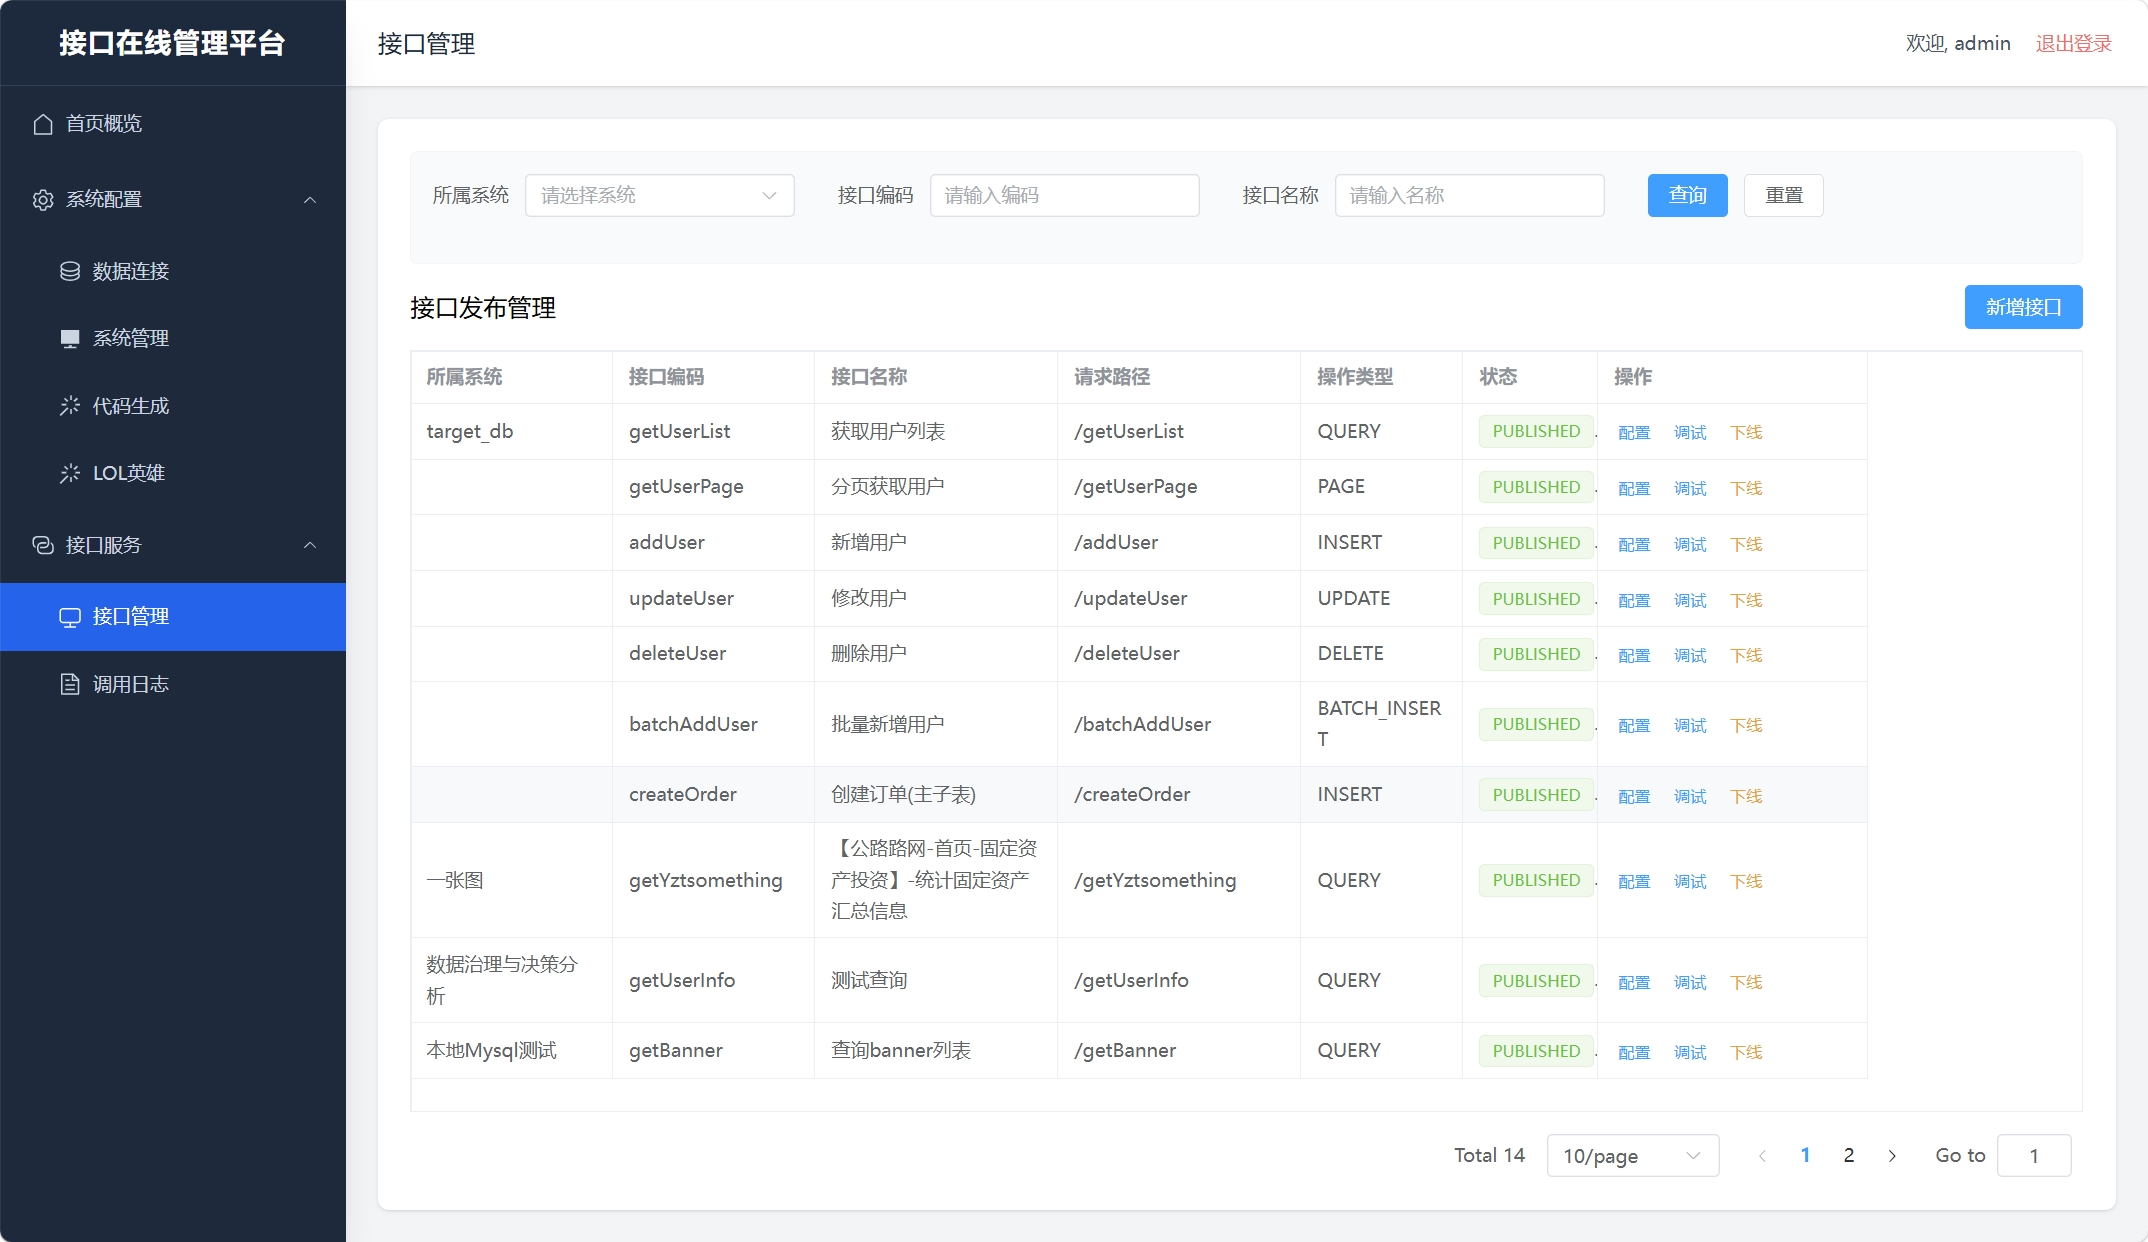
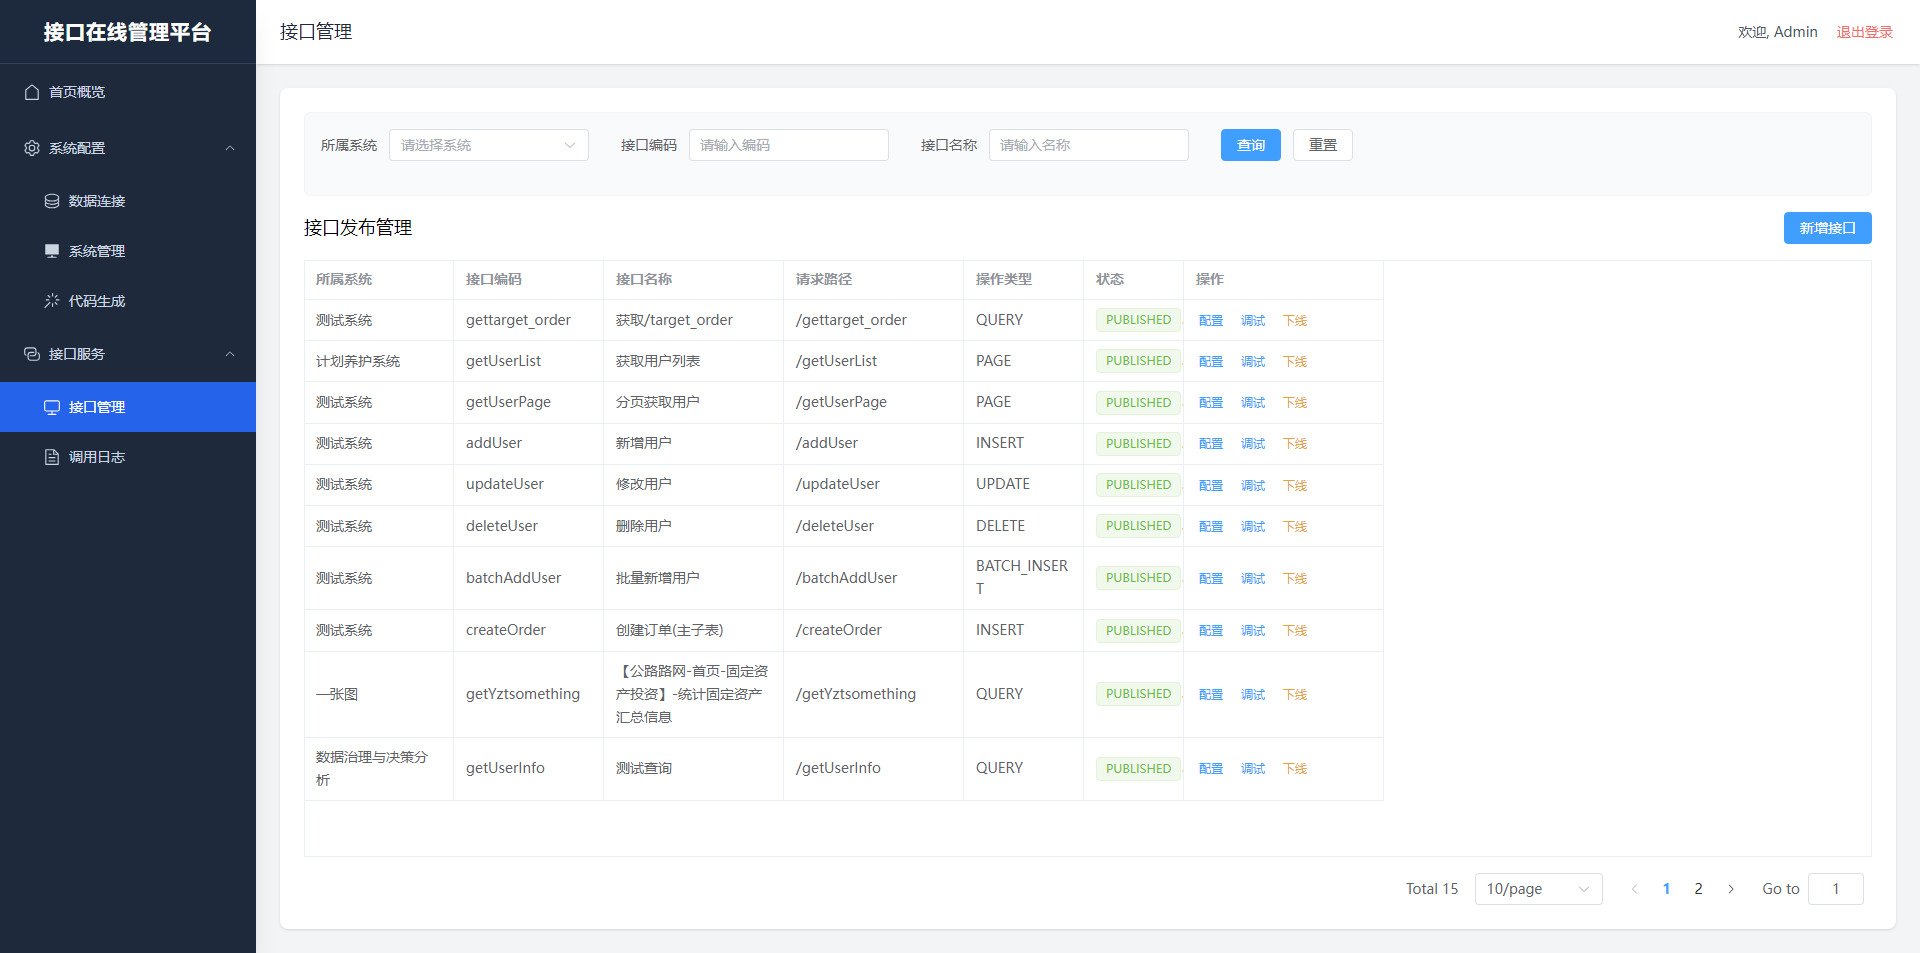
去出多余的依赖

diff --git a/coflxl-front/src/App.vue b/coflxl-front/src/App.vue
@@ -38,10 +38,6 @@
             <el-icon><MagicStick /></el-icon>
             <span>代码生成</span>
           </el-menu-item>
-          <el-menu-item index="/champion-details">
-            <el-icon><MagicStick /></el-icon>
-            <span>LOL英雄</span>
-          </el-menu-item>
         </el-sub-menu>
 
         <el-sub-menu index="api">

diff --git a/coflxl-front/src/router/index.ts b/coflxl-front/src/router/index.ts
@@ -57,11 +57,11 @@ const router = createRouter({
       name: 'CodeGen',
       component: CodeGen
     },
-    {
+   /* {
       path: '/champion-details',
       name: 'champion-details',
       component: ChampionDetails
-    }
+    }*/
   ]
 })
 
